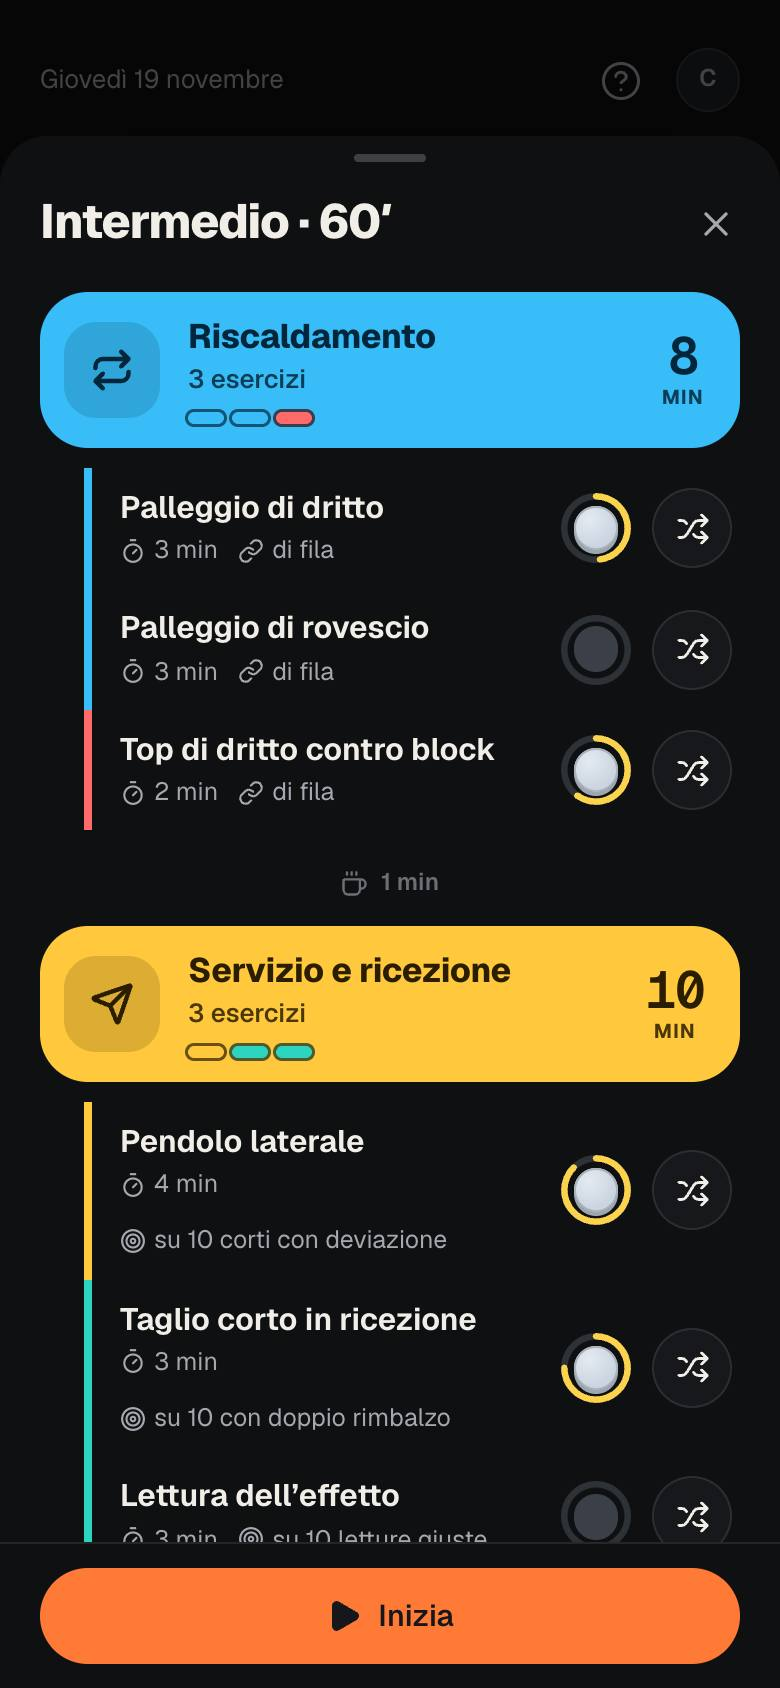
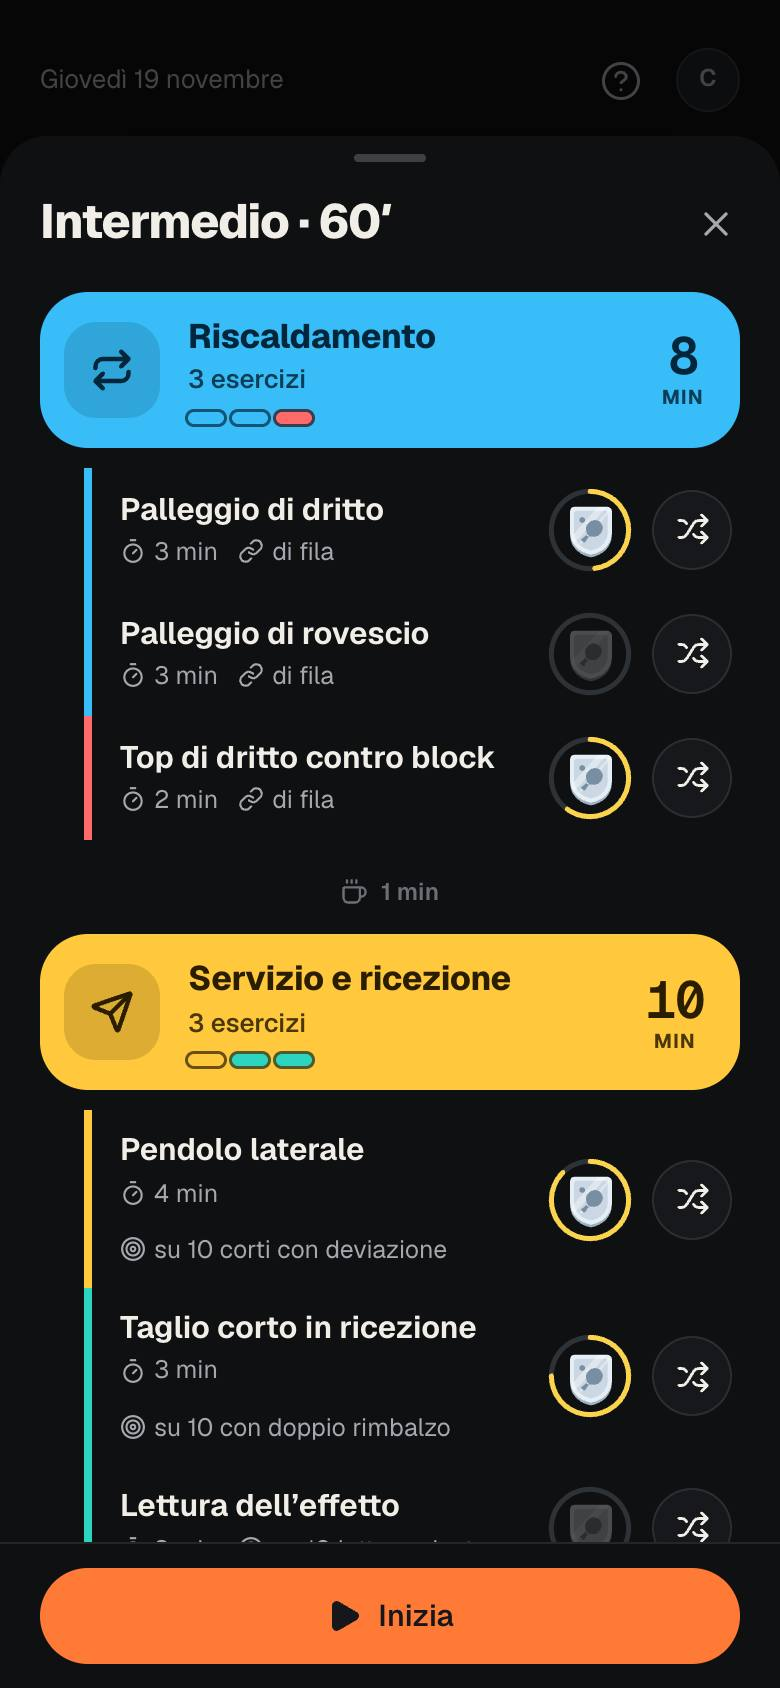
Medaglie: gli scudi disegnati al posto dei cerchi
Gli scudi di bronzo, argento, oro e platino (src/assets/medals) nell'anello di Oggi, nell'obiettivo della sessione e nella chiusura. Da prendere: grigi. Metà oro: metà a colori e metà grigia.

diff --git a/src/lib/ui/MedalRing.svelte b/src/lib/ui/MedalRing.svelte
@@ -1,15 +1,18 @@
 <script>
-  // La medaglia con l'anello: dentro la medaglia più alta presa (grigia se non c'è ancora),
-  // intorno l'avanzamento verso il gradino dopo, nel suo colore. L'anello si riempie con una molla.
+  // La medaglia con l'anello: dentro lo scudo più alto preso (se non c'è ancora, quello dopo in
+  // grigio; metà oro se c'è solo la metà), intorno l'avanzamento verso il gradino dopo, nel suo
+  // colore. L'anello si riempie con una molla.
   import { Spring } from 'svelte/motion';
   import { TIER } from '../data/library.js';
   import { nextGoal, topTier, closeness } from '../engine/medals.js';
   import { reducedMotion } from '../util/motion.js';
+  import MedalBadge from './MedalBadge.svelte';
 
   // pop: la medaglia entra con un rimbalzo (appena presa).
   let { exercise, medals = null, size = 56, pop = false } = $props();
 
   const top = $derived(topTier(medals));
+  const halfOnly = $derived(!top && Boolean(medals?.half));
   const next = $derived(nextGoal(exercise, medals));
   const target = $derived(next ? (next.half ? Math.max(0.5, closeness(exercise, medals)) : closeness(exercise, medals)) : 1);
   const progress = new Spring(0, { stiffness: 0.08, damping: 0.5 });
@@ -17,7 +20,7 @@
     progress.set(target, { instant: reducedMotion() });
   });
 
-  const R = 44;
+  const R = 46;
   const C = 2 * Math.PI * R;
   const label = $derived(
     [top ? TIER[top].name : 'Nessuna medaglia', next ? `prossima: ${TIER[next.tier].name.toLowerCase()}, ${Math.round(target * 100)}%` : 'tutte prese'].join(', ')
@@ -29,7 +32,7 @@
     <circle class="track" cx="50" cy="50" r={R} />
     <circle class="arc" cx="50" cy="50" r={R} stroke-dasharray={C} stroke-dashoffset={C * (1 - Math.min(1, Math.max(0, progress.current)))} />
   </svg>
-  <span class="disc" class:pop data-medal={top ?? 'none'} class:empty={!top}></span>
+  <span class="shield"><MedalBadge tier={halfOnly ? 'O' : (top ?? next?.tier ?? 'B')} on={Boolean(top)} half={halfOnly} size={Math.round(size * 0.64)} {pop} label={false} /></span>
 </span>
 
 <style>
@@ -50,7 +53,7 @@
   }
   circle {
     fill: none;
-    stroke-width: 9;
+    stroke-width: 6;
   }
   .track {
     stroke: color-mix(in srgb, var(--medal-none) 70%, transparent);
@@ -59,20 +62,10 @@
     stroke: var(--md);
     stroke-linecap: round;
   }
-  .disc {
-    width: 62%;
-    height: 62%;
-    border-radius: 50%;
-    background: radial-gradient(circle at 34% 30%, color-mix(in srgb, #fff 50%, var(--md)), var(--md) 64%);
-    box-shadow:
-      inset 0 0 0 1px color-mix(in srgb, #000 16%, var(--md)),
-      0 2px 0 color-mix(in srgb, #000 22%, var(--md));
-  }
-  .disc.empty {
-    background: var(--medal-none);
-    box-shadow: none;
-  }
-  .disc.pop {
-    animation: medal-in 0.75s var(--spring) both;
+  .shield {
+    position: relative;
+    display: grid;
+    place-items: center;
+    margin-top: 2%;
   }
 </style>

diff --git a/src/lib/screens/Live.svelte b/src/lib/screens/Live.svelte
@@ -37,6 +37,7 @@
   import StepBody from '../ui/StepBody.svelte';
   import GoalPad, { startGoal, goalTries } from '../ui/GoalPad.svelte';
   import MedalRing from '../ui/MedalRing.svelte';
+  import MedalBadge from '../ui/MedalBadge.svelte';
   import Brick from '../ui/Brick.svelte';
   import { stepFamily, FAMILY_ICON } from '../ui/design.js';
   import { celebrateFinish } from '../util/celebrate.js';
@@ -540,7 +541,7 @@
               {:else}
                 {@const g = nextGoal(stepEx, app.medals[stepEx.id])}
                 <button class="goal-btn raise neutral" onclick={() => (v ? (v.closed = false) : openGoal(step))}>
-                  <MedalRing exercise={stepEx} medals={app.medals[stepEx.id]} size={52} />
+                  <MedalRing exercise={stepEx} medals={app.medals[stepEx.id]} size={60} />
                   <span class="grow">
                     <strong>{v ? 'Torna all’obiettivo' : 'Prova l’obiettivo'}</strong>
                     <span class="small muted block">{g ? `${TIER[g.tier].name} · ${valueText(stepEx, g.goal, g.tier)}` : 'Tutte le medaglie prese'}</span>
@@ -582,7 +583,7 @@
                 {#each summary.won as w, i (w.ex + w.tier + (w.half ? 'h' : ''))}
                   {@const ex = app.catalog.exercise(w.ex)}
                   <div class="won" data-medal={w.tier} style:animation-delay="{i * 90}ms">
-                    <span class="won-disc" class:half={w.half}></span>
+                    <span class="won-pop" style:animation-delay="{i * 90}ms"><MedalBadge tier={w.tier} half={w.half} size={64} label={false} /></span>
                     <strong>{w.half ? 'Metà oro' : TIER[w.tier].name}</strong>
                     <span class="small muted">{ex?.name}</span>
                   </div>
@@ -999,17 +1000,9 @@
     font-size: 17px;
     font-weight: 750;
   }
-  .won-disc {
-    width: 52px;
-    height: 52px;
-    border-radius: 50%;
-    background: radial-gradient(circle at 34% 30%, color-mix(in srgb, #fff 50%, var(--md)), var(--md) 64%);
-    box-shadow: 0 3px 0 color-mix(in srgb, #000 22%, var(--md));
+  .won-pop {
+    display: grid;
     animation: medal-in 0.75s var(--spring) both;
-    animation-delay: inherit;
-  }
-  .won-disc.half {
-    background: linear-gradient(90deg, var(--md) 50%, var(--medal-none) 50%);
   }
   .group {
     display: flex;

diff --git a/src/lib/ui/MedalBadge.svelte b/src/lib/ui/MedalBadge.svelte
@@ -1,0 +1,54 @@
+<script>
+  // La medaglia disegnata: uno scudo per gradino (bronzo, argento, oro, platino).
+  // Presa: a colori. Da prendere: grigia. Metà oro: metà grigia e metà a colori.
+  import bronzo from '../../assets/medals/bronzo.svg';
+  import argento from '../../assets/medals/argento.svg';
+  import oro from '../../assets/medals/oro.svg';
+  import platino from '../../assets/medals/platino.svg';
+  import { TIER } from '../data/library.js';
+
+  const SRC = { B: bronzo, A: argento, O: oro, P: platino };
+
+  // size: la larghezza in px (lo scudo è un po' più alto che largo).
+  let { tier, on = true, half = false, size = 40, pop = false, label = true } = $props();
+  const text = $derived(`${TIER[tier]?.name ?? ''}${half ? ', metà' : on ? '' : ', da prendere'}`);
+</script>
+
+<span
+  class="badge"
+  class:pop
+  style:--s="{size}px"
+  role={label ? 'img' : undefined}
+  aria-label={label ? text : undefined}
+  aria-hidden={label ? undefined : 'true'}
+>
+  <img src={SRC[tier] ?? SRC.B} alt="" class:off={!on || half} draggable="false" />
+  {#if half}<img src={SRC[tier] ?? SRC.O} alt="" class="half" draggable="false" />{/if}
+</span>
+
+<style>
+  .badge {
+    position: relative;
+    display: inline-block;
+    flex: none;
+    width: var(--s);
+    height: calc(var(--s) * 1.125);
+  }
+  img {
+    position: absolute;
+    inset: 0;
+    width: 100%;
+    height: 100%;
+    user-select: none;
+    -webkit-user-drag: none;
+  }
+  .off {
+    filter: grayscale(1) opacity(0.38);
+  }
+  .half {
+    clip-path: inset(0 50% 0 0);
+  }
+  .pop {
+    animation: medal-in 0.75s var(--spring) both;
+  }
+</style>

diff --git a/src/lib/ui/GoalPad.svelte b/src/lib/ui/GoalPad.svelte
@@ -26,8 +26,8 @@
   import { medalsFor, dayValues, valueText, size } from '../engine/medals.js';
   import { chime } from '../util/device.js';
   import { celebrateMedal } from '../util/celebrate.js';
-  import Medal from './Medal.svelte';
   import MedalRing from './MedalRing.svelte';
+  import MedalBadge from './MedalBadge.svelte';
   import TestPad from './TestPad.svelte';
   import Counter from './Counter.svelte';
 
@@ -98,7 +98,7 @@
 <section class="card goal" data-medal={goal?.tier ?? 'P'}>
   <header>
     {#if goal}
-      <MedalRing {exercise} medals={after} size={48} />
+      <MedalRing {exercise} medals={after} size={56} />
       <div class="grow">
         <strong>Raggiungi {TIER[goal.tier].the}!</strong>
         <p class="small muted">{valueText(exercise, goal.goal, goal.tier)}{goal.half ? '. Ti manca un’altra seduta' : ''}</p>
@@ -160,13 +160,13 @@
     <div class="outcome">
       {#each gained as t (t)}
         <div class="won" data-tier={t} data-medal={t}>
-          <Medal tier={t} size={40} pop />
+          <MedalBadge tier={t} size={44} pop />
           <strong>{TIER[t].name}!</strong>
         </div>
       {/each}
       {#if halfNew}
         <div class="won" data-tier="O" data-medal="O">
-          <Medal tier="O" half size={40} pop />
+          <MedalBadge tier="O" half size={44} pop />
           <span><strong>Metà oro.</strong> Ti serve un’altra seduta, in un altro giorno.</span>
         </div>
       {/if}

diff --git a/src/lib/pages/Today.svelte b/src/lib/pages/Today.svelte
@@ -302,7 +302,7 @@
         {#each tiles as id (id)}
           {@const ex = app.catalog.exercise(id)}
           <button class="tile" onclick={() => ui.open('exercise', { id })}>
-            <MedalRing exercise={ex} medals={app.medals[id]} size={60} />
+            <MedalRing exercise={ex} medals={app.medals[id]} size={72} />
             <span class="tile-name">{ex.name}</span>
             <span class="tile-next" class:near={near.some((n) => n.ex === id)}>{nextShort(ex)}</span>
           </button>
@@ -341,7 +341,7 @@
                     {#if MIcon}<span><MIcon size={13} /> {measureLabel(ex)}</span>{/if}
                   </span>
                 </button>
-                {#if ex}<MedalRing exercise={ex} medals={app.medals[s.ex]} size={36} />{/if}
+                {#if ex}<MedalRing exercise={ex} medals={app.medals[s.ex]} size={42} />{/if}
                 {#if s.kind === 'exercise'}
                   <button class="round sm" onclick={() => change(s)} aria-label="Cambia esercizio: {s.name}"><Shuffle size={17} /></button>
                 {/if}

diff --git a/docs/design.md b/docs/design.md
@@ -156,7 +156,7 @@ Un blocco della sessione. Tinta piena della famiglia, rilievo, arrotondamento 24
 Fondo tenue della famiglia, icona della famiglia, nome (18, peso 700), badge del livello, parametri con icona e unità (`timer 6 min`, `target su 10`, `link di fila`), anello della medaglia a destra.
 
 ### Medaglia con anello (`MedalRing`)
-Un cerchio con l'anello di avanzamento verso il gradino dopo (record ÷ soglia). Dentro, la medaglia più alta presa, colorata; grigia se non c'è ancora. Sotto, il gradino dopo in breve («oro · 20»). Animazione: l'anello si riempie con una molla, la medaglia nuova entra con un rimbalzo.
+Un cerchio con l'anello di avanzamento verso il gradino dopo (record ÷ soglia). Dentro, lo scudo della medaglia più alta presa, a colori; se non c'è ancora, lo scudo del gradino dopo in grigio; con la metà oro, uno scudo metà oro e metà grigio. Gli scudi sono disegni in `src/assets/medals/` (bronzo, argento, oro, platino), usati dal componente `MedalBadge`. Sotto, il gradino dopo in breve («oro · 20»). Animazione: l'anello si riempie con una molla, la medaglia nuova entra con un rimbalzo.
 
 ### Badge del livello (`LevelBadge`)
 Pillola con il colore del livello, cinque tacche (piene fino al livello) e il nome in maiuscolo. Si tocca per cambiare livello.
